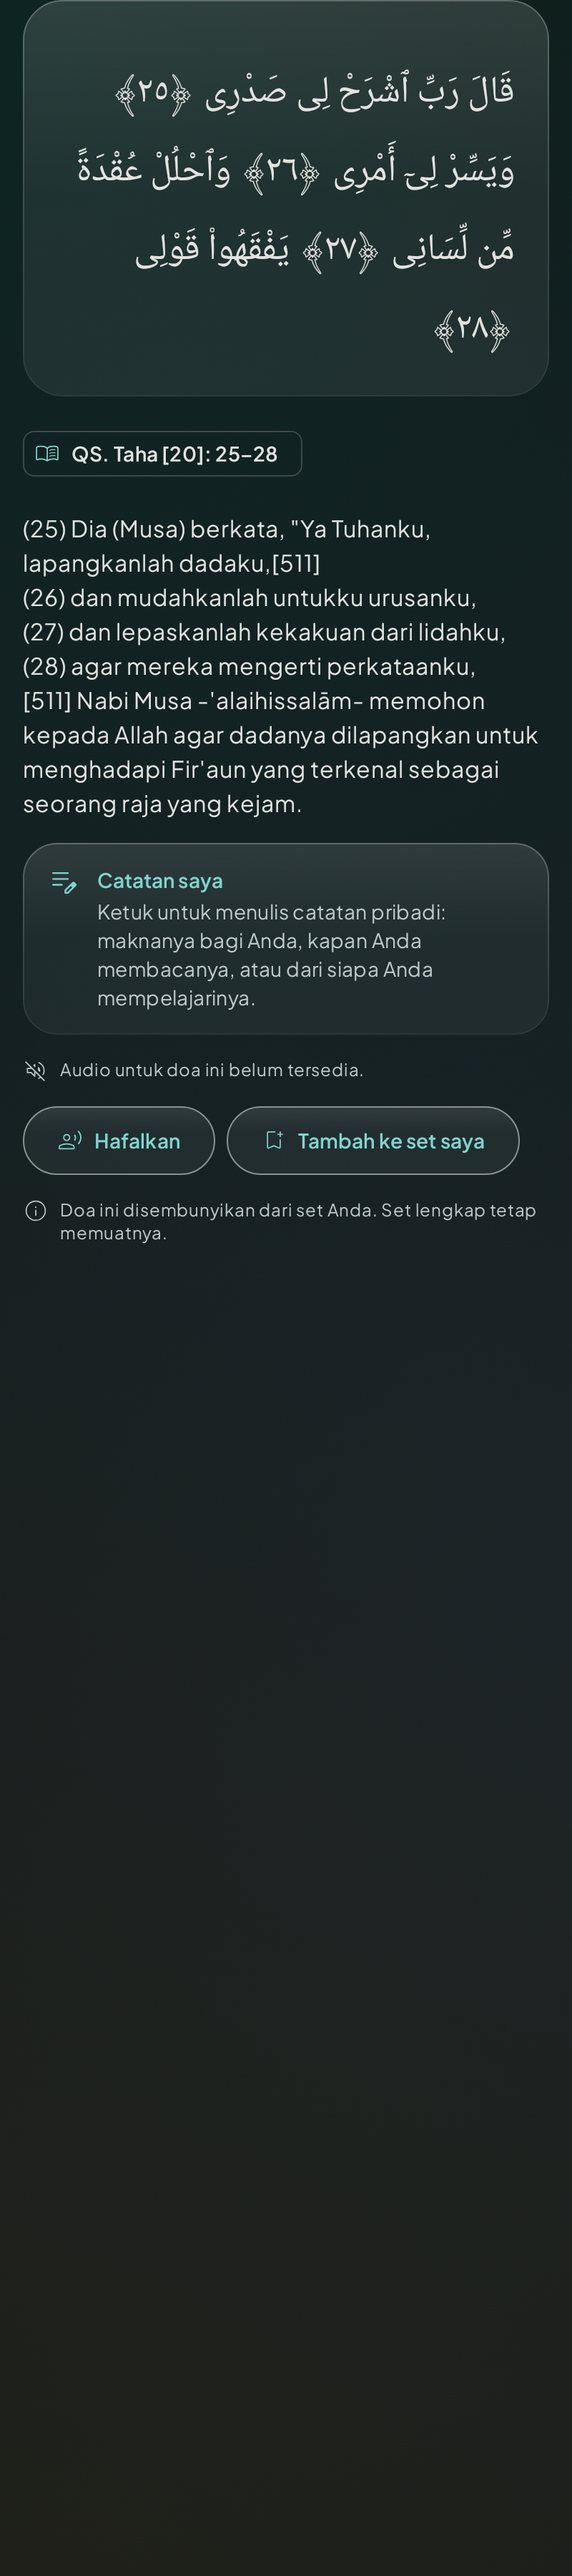
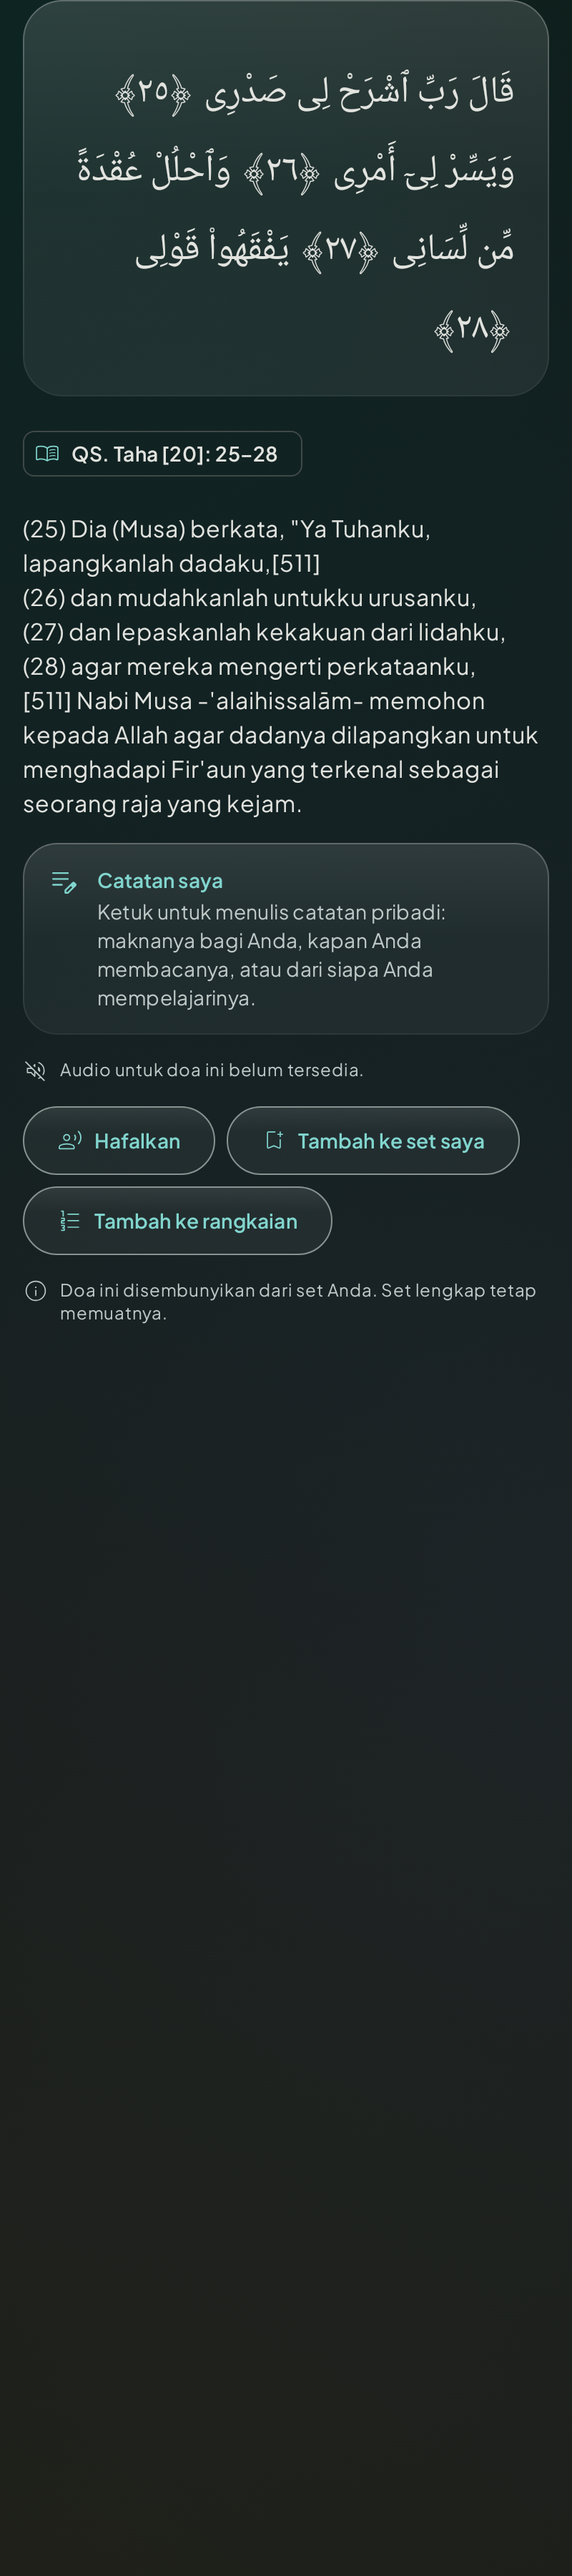
Remove a dua from My hifz; add a dua to a routine from its page
- Memorize: each My hifz row has a remove button (named for TalkBack) with a
  confirmation. Removing deletes the review schedule; the dua stays in the
  library.
- Dua detail: "Tambah ke rangkaian" opens a sheet of the reader's routines
  with the dua ticked where it already is; ticking appends it, unticking takes
  it out. "Buat rangkaian" opens the editor with this dua already in it.

Changed region(s): [[0.0938, 0.4667, 0.5312, 0.5289]]

diff --git a/app/src/main/java/id/haho/muslimdaily/feature/memorize/MemorizeHomeScreen.kt b/app/src/main/java/id/haho/muslimdaily/feature/memorize/MemorizeHomeScreen.kt
@@ -3,6 +3,7 @@ package id.haho.muslimdaily.feature.memorize
 import androidx.compose.foundation.layout.Box
 import id.haho.muslimdaily.core.designsystem.glass.enterReveal
 import id.haho.muslimdaily.core.designsystem.glass.Glass
+import id.haho.muslimdaily.core.designsystem.glass.GlassAlertDialog
 import id.haho.muslimdaily.core.designsystem.glass.GlassExtendedFab
 import id.haho.muslimdaily.core.designsystem.glass.GlassButton
 import id.haho.muslimdaily.core.designsystem.glass.GlassCard
@@ -18,10 +19,15 @@ import androidx.compose.foundation.layout.padding
 import androidx.compose.foundation.lazy.LazyColumn
 import androidx.compose.foundation.lazy.items
 import androidx.compose.material3.Icon
+import androidx.compose.material3.IconButton
 import androidx.compose.material3.MaterialTheme
 import androidx.compose.material3.Text
+import androidx.compose.material3.TextButton
 import androidx.compose.runtime.Composable
 import androidx.compose.runtime.getValue
+import androidx.compose.runtime.mutableStateOf
+import androidx.compose.runtime.remember
+import androidx.compose.runtime.setValue
 import androidx.compose.ui.Alignment
 import androidx.compose.ui.Modifier
 import androidx.compose.ui.res.painterResource
@@ -52,6 +58,7 @@ import kotlinx.coroutines.flow.SharingStarted
 import kotlinx.coroutines.flow.StateFlow
 import kotlinx.coroutines.flow.combine
 import kotlinx.coroutines.flow.stateIn
+import kotlinx.coroutines.launch
 import java.time.Clock
 import java.time.LocalDate
 import javax.inject.Inject
@@ -64,7 +71,7 @@ data class MemorizeHomeState(val today: LocalDate, val entries: List<HifzEntry>)
 
 @HiltViewModel
 class MemorizeHomeViewModel @Inject constructor(
-    reviews: ReviewRepository,
+    private val reviews: ReviewRepository,
     content: ContentRepository,
     clock: Clock,
 ) : ViewModel() {
@@ -81,6 +88,11 @@ class MemorizeHomeViewModel @Inject constructor(
             },
         )
     }.stateIn(viewModelScope, SharingStarted.WhileSubscribed(5_000), null)
+
+    /** Takes a dua out of "My hifz", with its review schedule. The dua itself stays in the library. */
+    fun remove(duaId: String) {
+        viewModelScope.launch { reviews.remove(duaId) }
+    }
 }
 
 @Composable
@@ -100,12 +112,12 @@ fun MemorizeHomeRoute(
             )
         },
     ) {
-        state?.let { MemorizeHomeContent(it, onOpen) }
+        state?.let { MemorizeHomeContent(it, onRemove = viewModel::remove, onOpen = onOpen) }
     }
 }
 
 @Composable
-fun MemorizeHomeContent(state: MemorizeHomeState, onOpen: (String, Boolean) -> Unit) {
+fun MemorizeHomeContent(state: MemorizeHomeState, onRemove: (String) -> Unit = {}, onOpen: (String, Boolean) -> Unit) {
     LazyColumn(
         Modifier.fillMaxSize(),
         contentPadding = PaddingValues(start = AppTheme.dimens.screenGutter, end = AppTheme.dimens.screenGutter, bottom = AppTheme.spacing.xxxl * 2),
@@ -130,7 +142,7 @@ fun MemorizeHomeContent(state: MemorizeHomeState, onOpen: (String, Boolean) -> U
                 )
             }
             items(state.entries, key = { it.item.duaId }) { entry ->
-                Box(Modifier.animateItem()) { HifzRow(entry) { onOpen(entry.dua.id, entry.due) } }
+                Box(Modifier.animateItem()) { HifzRow(entry, onRemove = { onRemove(entry.dua.id) }) { onOpen(entry.dua.id, entry.due) } }
             }
         }
         item(key = "note") { InfoNote(stringResource(R.string.memorize_no_streaks)) }
@@ -159,7 +171,8 @@ private fun ReviewQueueCard(state: MemorizeHomeState, onOpen: (String, Boolean) 
 }
 
 @Composable
-private fun HifzRow(entry: HifzEntry, onClick: () -> Unit) {
+private fun HifzRow(entry: HifzEntry, onRemove: () -> Unit, onClick: () -> Unit) {
+    var confirmRemove by remember { mutableStateOf(false) }
     GlassCard(shape = MaterialTheme.shapes.large, modifier = Modifier.fillMaxWidth()) {
         Column(
             Modifier
@@ -175,6 +188,13 @@ private fun HifzRow(entry: HifzEntry, onClick: () -> Unit) {
                     color = MaterialTheme.colorScheme.onSurfaceVariant,
                     modifier = Modifier.weight(1f),
                 )
+                IconButton(onClick = { confirmRemove = true }) {
+                    Icon(
+                        painterResource(R.drawable.ic_close),
+                        stringResource(R.string.memorize_remove_named, entry.eventLabel),
+                        tint = MaterialTheme.colorScheme.onSurfaceVariant,
+                    )
+                }
             }
             FlowRow(horizontalArrangement = Arrangement.spacedBy(AppTheme.spacing.sm), verticalArrangement = Arrangement.spacedBy(AppTheme.spacing.xs)) {
                 when {
@@ -215,5 +235,16 @@ private fun HifzRow(entry: HifzEntry, onClick: () -> Unit) {
                 }
             }
         }
+    }
+    if (confirmRemove) {
+        GlassAlertDialog(
+            onDismissRequest = { confirmRemove = false },
+            title = { Text(stringResource(R.string.memorize_remove_title)) },
+            text = { Text(stringResource(R.string.memorize_remove_body)) },
+            confirmButton = {
+                TextButton(onClick = { confirmRemove = false; onRemove() }) { Text(stringResource(R.string.memorize_remove)) }
+            },
+            dismissButton = { TextButton(onClick = { confirmRemove = false }) { Text(stringResource(R.string.action_cancel)) } },
+        )
     }
 }

diff --git a/app/src/main/java/id/haho/muslimdaily/feature/duas/detail/DuaDetailScreen.kt b/app/src/main/java/id/haho/muslimdaily/feature/duas/detail/DuaDetailScreen.kt
@@ -33,6 +33,12 @@ import androidx.compose.foundation.layout.Row
 import androidx.compose.runtime.getValue
 import androidx.compose.runtime.rememberCoroutineScope
 import androidx.compose.ui.Alignment
+import id.haho.muslimdaily.core.designsystem.glass.GlassBottomSheet
+import androidx.compose.ui.semantics.Role
+import androidx.compose.material3.Checkbox
+import androidx.compose.foundation.selection.toggleable
+import androidx.compose.foundation.layout.heightIn
+import androidx.compose.foundation.clickable
 import androidx.compose.ui.Modifier
 import androidx.compose.ui.platform.LocalContext
 import androidx.compose.ui.res.painterResource
@@ -62,12 +68,15 @@ data class DuaDetailActions(
     val onMemorize: () -> Unit = {},
     val onSetInMySet: (Boolean) -> Unit = {},
     val onSaveNote: (String) -> Unit = {},
+    val onSetInRoutine: (routineId: String, included: Boolean) -> Unit = { _, _ -> },
+    val onNewRoutine: () -> Unit = {},
 )
 
 @Composable
 fun DuaDetailRoute(
     onBack: () -> Unit,
     onMemorize: (String) -> Unit,
+    onNewRoutine: (String) -> Unit,
     viewModel: DuaDetailViewModel = hiltViewModel(),
 ) {
     val state by viewModel.state.collectAsStateWithLifecycle()
@@ -113,6 +122,8 @@ fun DuaDetailRoute(
                     onMemorize = { onMemorize(s.dua.id) },
                     onSetInMySet = viewModel::setInMySet,
                     onSaveNote = viewModel::saveNote,
+                    onSetInRoutine = viewModel::setInRoutine,
+                    onNewRoutine = { onNewRoutine(s.dua.id) },
                 ),
             )
         }
@@ -121,6 +132,8 @@ fun DuaDetailRoute(
 
 @Composable
 fun DuaDetailContent(state: DuaDetailState, actions: DuaDetailActions) {
+    var routineSheet by remember { mutableStateOf(false) }
+    if (routineSheet) RoutineSheet(state, actions) { routineSheet = false }
     val dua = state.dua
     Column(
         Modifier
@@ -181,6 +194,11 @@ fun DuaDetailContent(state: DuaDetailState, actions: DuaDetailActions) {
                 )
                 Spacer(Modifier.width(AppTheme.spacing.sm))
                 Text(stringResource(if (state.inMySet) R.string.dua_remove_from_set else R.string.dua_add_to_set))
+            }
+            GlassOutlinedButton(onClick = { routineSheet = true }) {
+                Icon(painterResource(R.drawable.ic_format_list_numbered), null, Modifier.size(AppTheme.dimens.smallIcon))
+                Spacer(Modifier.width(AppTheme.spacing.sm))
+                Text(stringResource(R.string.dua_add_to_routine))
             }
         }
         InfoNote(
@@ -244,5 +262,46 @@ private fun NoteCard(note: String?, onSave: (String) -> Unit) {
                 }
             },
         )
+    }
+}
+
+/** The reader's routines with this dua ticked where it is in them, and a new routine that starts with it. */
+@Composable
+private fun RoutineSheet(state: DuaDetailState, actions: DuaDetailActions, onDismiss: () -> Unit) {
+    GlassBottomSheet(onDismissRequest = onDismiss) {
+        Column(Modifier.padding(bottom = AppTheme.spacing.xxl)) {
+            Text(
+                stringResource(R.string.dua_add_to_routine),
+                style = MaterialTheme.typography.titleMedium,
+                modifier = Modifier.padding(horizontal = AppTheme.dimens.screenGutter, vertical = AppTheme.spacing.sm).semantics { heading() },
+            )
+            state.routines.forEach { routine ->
+                val checked = state.dua.id in routine.duaIds
+                Row(
+                    Modifier
+                        .fillMaxWidth()
+                        .heightIn(min = AppTheme.dimens.largeTouchTarget)
+                        .toggleable(value = checked, role = Role.Checkbox, onValueChange = { actions.onSetInRoutine(routine.id, it) })
+                        .padding(horizontal = AppTheme.dimens.screenGutter),
+                    verticalAlignment = Alignment.CenterVertically,
+                ) {
+                    Checkbox(checked = checked, onCheckedChange = null)
+                    Spacer(Modifier.width(AppTheme.spacing.md))
+                    Text(routine.name, style = MaterialTheme.typography.bodyLarge, modifier = Modifier.weight(1f))
+                }
+            }
+            Row(
+                Modifier
+                    .fillMaxWidth()
+                    .heightIn(min = AppTheme.dimens.largeTouchTarget)
+                    .clickable(role = Role.Button) { onDismiss(); actions.onNewRoutine() }
+                    .padding(horizontal = AppTheme.dimens.screenGutter),
+                verticalAlignment = Alignment.CenterVertically,
+            ) {
+                Icon(painterResource(R.drawable.ic_add), null, tint = MaterialTheme.colorScheme.primary)
+                Spacer(Modifier.width(AppTheme.spacing.md))
+                Text(stringResource(R.string.routine_new), style = MaterialTheme.typography.bodyLarge, color = MaterialTheme.colorScheme.primary)
+            }
+        }
     }
 }

diff --git a/app/src/main/java/id/haho/muslimdaily/feature/duas/detail/DuaDetailViewModel.kt b/app/src/main/java/id/haho/muslimdaily/feature/duas/detail/DuaDetailViewModel.kt
@@ -21,6 +21,8 @@ import kotlinx.coroutines.flow.Flow
 import kotlinx.coroutines.flow.SharingStarted
 import kotlinx.coroutines.flow.StateFlow
 import id.haho.muslimdaily.data.note.NoteRepository
+import id.haho.muslimdaily.data.routine.Routine
+import id.haho.muslimdaily.data.routine.RoutineRepository
 import kotlinx.coroutines.flow.combine
 import kotlinx.coroutines.flow.filterNotNull
 import kotlinx.coroutines.flow.first
@@ -38,6 +40,8 @@ data class DuaDetailState(
     val inMySet: Boolean,
     /** The reader's own note, if any. */
     val note: String? = null,
+    /** The reader's routines, for "add to routine". */
+    val routines: List<Routine> = emptyList(),
 )
 
 @OptIn(ExperimentalCoroutinesApi::class)
@@ -49,6 +53,7 @@ class DuaDetailViewModel @Inject constructor(
     private val settings: SettingsRepository,
     private val audio: AudioEngine,
     private val notes: NoteRepository,
+    private val routineRepo: RoutineRepository,
 ) : ViewModel() {
     val duaId: String = savedState.toRoute<DuaDetailRoute>().duaId
 
@@ -80,6 +85,7 @@ class DuaDetailViewModel @Inject constructor(
             )
         }
     }.combine(notes.note(duaId)) { st, note -> st?.copy(note = note) }
+        .combine(routineRepo.routines()) { st, routines -> st?.copy(routines = routines) }
         .stateIn(viewModelScope, SharingStarted.WhileSubscribed(5_000), null)
 
     fun saveNote(text: String) {
@@ -111,6 +117,10 @@ class DuaDetailViewModel @Inject constructor(
             val custom = mySets.customizationOnce(d.event)
             mySets.saveItems(d.event, ActiveSet.withIncluded(canonical, custom, keyOf(d), included))
         }
+    }
+
+    fun setInRoutine(routineId: String, included: Boolean) {
+        viewModelScope.launch { routineRepo.setIncluded(routineId, duaId, included) }
     }
 
     suspend fun contentVersion(): Int = content.contentVersion()

diff --git a/app/src/test/java/id/haho/muslimdaily/data/routine/RoutineRepositoryTest.kt b/app/src/test/java/id/haho/muslimdaily/data/routine/RoutineRepositoryTest.kt
@@ -1,0 +1,34 @@
+package id.haho.muslimdaily.data.routine
+
+import android.content.Context
+import androidx.room.Room
+import androidx.test.core.app.ApplicationProvider
+import androidx.test.ext.junit.runners.AndroidJUnit4
+import id.haho.muslimdaily.data.db.UserDatabase
+import kotlinx.coroutines.test.runTest
+import org.junit.After
+import org.junit.Test
+import org.junit.runner.RunWith
+import java.time.Clock
+import kotlin.test.assertEquals
+
+@RunWith(AndroidJUnit4::class)
+class RoutineRepositoryTest {
+    private val context = ApplicationProvider.getApplicationContext<Context>()
+    private val db = Room.inMemoryDatabaseBuilder(context, UserDatabase::class.java).allowMainThreadQueries().build()
+    private val repo = RoutineRepository(db, Clock.systemUTC())
+
+    @After fun close() = db.close()
+
+    @Test
+    fun `a dua added from its page goes at the end, once, and can be taken out`() = runTest {
+        val id = repo.save(null, "Pagi kerja", listOf("a", "b"))
+        repo.setIncluded(id, "c", true)
+        repo.setIncluded(id, "c", true)
+        assertEquals(listOf("a", "b", "c"), repo.routine(id)!!.duaIds)
+        assertEquals("Pagi kerja", repo.routine(id)!!.name)
+
+        repo.setIncluded(id, "a", false)
+        assertEquals(listOf("b", "c"), repo.routine(id)!!.duaIds)
+    }
+}

diff --git a/app/src/main/java/id/haho/muslimdaily/navigation/AppNavHost.kt b/app/src/main/java/id/haho/muslimdaily/navigation/AppNavHost.kt
@@ -102,7 +102,11 @@ fun AppNavHost(navController: NavHostController, modifier: Modifier = Modifier) 
                 )
             }
             composable<DuaDetailRoute> {
-                DuaDetailRoute(onBack = back, onMemorize = { navController.navigate(MemorizeSessionRoute(it)) })
+                DuaDetailRoute(
+                    onBack = back,
+                    onMemorize = { navController.navigate(MemorizeSessionRoute(it)) },
+                    onNewRoutine = { navController.navigate(RoutineEditRoute(withDua = it)) },
+                )
             }
             composable<CustomizeRoute> {
                 CustomizeRoute(onBack = back, onSaveAsRoutine = { navController.navigate(RoutineEditRoute(fromEvent = it)) })

diff --git a/app/src/main/java/id/haho/muslimdaily/data/routine/RoutineRepository.kt b/app/src/main/java/id/haho/muslimdaily/data/routine/RoutineRepository.kt
@@ -47,5 +47,12 @@ class RoutineRepository @Inject constructor(private val db: UserDatabase, privat
         return routine.id
     }
 
+    /** Adds [duaId] at the end of the routine, or takes it out. The routine keeps its name and place. */
+    suspend fun setIncluded(routineId: String, duaId: String, included: Boolean) {
+        val r = routine(routineId) ?: return
+        val ids = if (included) (r.duaIds - duaId) + duaId else r.duaIds - duaId
+        if (ids != r.duaIds) save(r.id, r.name, ids)
+    }
+
     suspend fun delete(id: String) = dao.remove(id)
 }

diff --git a/app/src/main/java/id/haho/muslimdaily/feature/routines/RoutineEditViewModel.kt b/app/src/main/java/id/haho/muslimdaily/feature/routines/RoutineEditViewModel.kt
@@ -86,6 +86,7 @@ class RoutineEditViewModel @Inject constructor(
                     val duas = ActiveSet.active(ActiveSet.canonical(content.duasForEventOnce(route.fromEvent)), mySets.customizationOnce(route.fromEvent))
                     event?.label.orEmpty() to duas
                 }
+                route.withDua != null -> "" to content.duas(listOf(route.withDua))
                 else -> "" to emptyList()
             }
             _state.value = RoutineEditState(isNew = existing == null, name = name, items = items, categories = categories)

diff --git a/app/src/main/java/id/haho/muslimdaily/navigation/Routes.kt b/app/src/main/java/id/haho/muslimdaily/navigation/Routes.kt
@@ -29,7 +29,7 @@ import kotlinx.serialization.Serializable
 @Serializable data class CustomizeRoute(val eventId: String)
 @Serializable data class RunRoute(val eventId: String)
 /** [id] null creates a routine; [fromEvent] pre-fills it with that occasion's duas. */
-@Serializable data class RoutineEditRoute(val id: String? = null, val fromEvent: String? = null)
+@Serializable data class RoutineEditRoute(val id: String? = null, val fromEvent: String? = null, val withDua: String? = null)
 
 // Memorize
 @Serializable data object MemorizeHomeRoute
